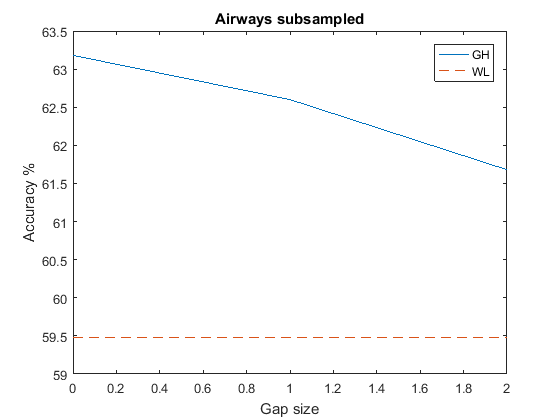
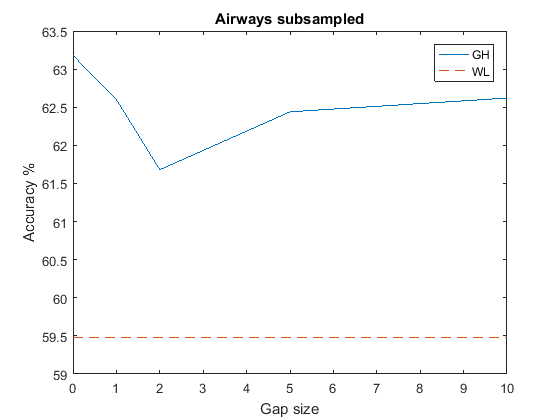
Div. rettelser

diff --git a/rapport/rapport.tex b/rapport/rapport.tex
@@ -109,7 +109,7 @@ mathescape
 \newpage
 
 \section{Introduction}
-This report presents our work and the theory used developing and testing an efficient implementation of the GraphHopper kernel\cite{gappy} with \textit{gappy paths} in C++ for our Bachelor thesis. While we do introduce the basics behind \textit{Support Vector Machines } (SVM) and kernels based on our earlier work in \cite{svm-graph-kernels} the focus will primarily lie on the algorithm behind the kernel itself as well as the introduction of \textit{gaps}. Gaps have been proved useful in string kernels but have to our knowledge never before been implemented in a graph kernel. After presenting the theory we will provide the results of our experiments analysing the time efficiency of our implementation compared to an existing MATLAB-implementation as well as the effect on classification accuracy in different datasets when adding gaps to the kernel.
+This report presents our work and the theory used developing and testing an efficient implementation of the GraphHopper kernel\cite{gappy} with \textit{gappy paths} in C++ for our Bachelor thesis. While we do introduce the basics behind \textit{Support Vector Machines } (SVM) and kernels based on our earlier work in \cite{svm-graph-kernels} the focus will primarily lie on the algorithm behind the kernel itself as well as the introduction of \textit{gaps}. Gaps have been proved useful in string kernels\cite{string-kernels} but have to our knowledge never before been implemented in a graph kernel. After presenting the theory we will provide the results of our experiments analysing the time efficiency of our implementation compared to an existing MATLAB-implementation as well as the effect on classification accuracy in different datasets when adding gaps to the kernel.
 
 \section{SVM}
 Before introducing the GraphHopper kernel we need to establish some essential underlying theory. In this section we will focus on the basic theory of classification, SVM, kernels and cross-validation. This is a condensed summary of the most relevant parts of our former work \cite{svm-graph-kernels} where we discuss the topics thoroughly.
@@ -283,7 +283,7 @@ k_{graphhopper}(G,G')=\sum_{v\in V}\sum_{v'\in V'}w(v,v')k_n(v,v')
 \end{equation}
 
 
-When calculating $w(v,v')$ we sum the number of pairs $\pi,\pi'$ such that $|\pi|=|\pi'|$ and $\pi(i)=\pi'(i)$ for some $i$. Let $width(G)$ be the discrete length of the longest shortest path $\pi\in P$ and let $\delta=min(width(G), width(G'))$. Since we only consider pairs of paths of same length we do not have to consider any paths of length greater than $\delta$.
+When calculating $w(v,v')$ we sum the number of pairs $\pi,\pi'$ such that $|\pi|=|\pi'|$,  $\pi(i)=v$ and $\pi'(i)=v'$ for some $i$. Let $width(G)$ be the discrete length of the longest shortest path $\pi\in P$ and let $\delta=min(width(G), width(G'))$. Since we only consider pairs of paths of same length we do not have to consider any paths of length greater than $\delta$.
 
 Beside from this limitation it is trivial that for a pair of paths $\pi,\ \pi'$ such that $|\pi|=|\pi'|=j$ we only have to consider nodes at index $i=1..j$ since there cannot exist any nodes at index $i>j$.
 
@@ -307,7 +307,7 @@ The $M$ matrix can be computed in a number of ways. We will be using the message
 
 Let $\tilde{v}$ be a node in $V$ and let $P_{\tilde{v}}$ be the set of shortest paths in $G$ starting in $\tilde{v}$. Then $M(v)_{ij}$ becomes the sum of shortest paths $\pi_{\tilde{v}}\in P_{\tilde{v}}$ of discrete length $j$ for all $\tilde{v}\in V$ such that $v$ appears as the $i$'th node in $\pi_{\tilde{v}}$. This means that we can compute $M$ by iterating over each node $\tilde{v}\in V$ and finding all shortest paths starting in $\tilde{v}$.
 
-Before we move on, we will first introduce the shortest path DAG $G_{\tilde{v}}=(V, E_{\tilde{v}})$ for $\tilde{v}$ where $E_{\tilde{v}}$ are edges kept in $G_{\tilde{v}}$. The shortest path DAG $G_{\tilde{v}}$ is created by removing a minimum amount of edges from $G$ so that it only contains edges that are part of some shortest path starting in $\tilde{v}$. We call $\tilde{v}$ the root node in the resulting DAG. This is illustrated in figure \ref{fig:shortest-path-dag} where we present a graph $G$ and the shortest path DAG $G_{a}$ rooted in $a$.
+Before we move on, we will first introduce the shortest path DAG $G_{\tilde{v}}=(V, E_{\tilde{v}})$ for $\tilde{v}$ where $E_{\tilde{v}}$ are edges kept in $G_{\tilde{v}}$. The shortest path DAG $G_{\tilde{v}}$ is created by removing all unnecessary edges from $E$ so that it only contains edges that are part of some shortest path starting in $\tilde{v}$. We call $\tilde{v}$ the root node in the resulting DAG. This is illustrated in figure \ref{fig:shortest-path-dag} where we present a graph $G$ and the shortest path DAG $G_{a}$ rooted in $a$.
 
 \begin{figure}[H]
 	\begin{minipage}[t]{0.7\linewidth}
@@ -438,7 +438,7 @@ When computing $\mathfrak{D}_{\tilde{v}}$ with the algorithm detailed in figure 
 Having computed $\mathfrak{O}_{\tilde{v}}$ and $\mathfrak{D}_{\tilde{v}}$ we now observe that the number of times that $v$ appears as the $i$'th node in a path of discrete length $j$ in $G_{\tilde{v}}$ must be the number of paths from $\tilde{v}$ to $v$ in $G_{\tilde{v}}$ of length $i$ times the number of paths of length $j-i+1$ in $G_{\tilde{v}}$ starting in $v$; i.e.\ $\mathfrak{O}_{\tilde{v}}^v(v,i)\mathfrak{D}_{\tilde{v}}(v,j - i + 1)$.
 
 \textbf{Example}\\
-Consider the node $d$ in figure \ref{fig:shortest-path-dag}. Trying to find the number of paths in $G_{a}$ such that $d$ is the 2nd node in a path of length 3 we can intuitively see that there is one such path: $[a,d,c]$. This equivalent to the number of paths of length 2 from $a$ to $d$ times the number of paths of length $3-2+1=2$ starting in $d$.
+Consider the node $d$ in figure \ref{fig:shortest-path-dag}. Trying to find the number of paths in $G_{a}$ such that $d$ is the 2nd node in a path of length 3 we can intuitively see that there is one such path: $[a,d,c]$. This is equivalent to the number of paths of length 2 from $a$ to $d$ times the number of paths of length $3-2+1=2$ starting in $d$.
 This could be computed using the $\mathfrak{o}_a^d$ and $\mathfrak{d}_a^d$ computed earlier in figures \ref{fig:compute_o} and \ref{fig:compute_d}:
 \begin{align}
 \mathfrak{o}_a^d(2)\mathfrak{d}_a^d(3-2+1)&=\mathfrak{o}_a^d(2)\mathfrak{d}_a^d(2)\\
@@ -679,7 +679,7 @@ end
 
 \section{Node kernels}
 \label{section:node-kernels}
-As mentioned in section $\ref{section:graphhopper}$ one of the advantages of GraphHopper is that we apply any node kernel to compare the nodes. In this section we introduce the node kernels that we have chosen to include in our implementation. The following equations will be comparing two values $x,x'$ which when used as node kernel represent the labels of two nodes $v,v'$.
+As mentioned in section $\ref{section:graphhopper}$ one of the advantages of GraphHopper is that we may apply any node kernel to compare the nodes. In this section we introduce the node kernels that we have chosen to include in our implementation. The following equations will be comparing two values $x,x'$ which when used as node kernel represent the labels of two nodes $v,v'$.
 
 \subsection{Dirac}
 Dirac is a simple kernel best suited for comparing discrete values representing non-continuous data, e.g. categorized nodes. The kernel returns 1 if the two values are equal and 0 otherwise. The kernel is formally described in (\ref{eq:dirac}).
@@ -941,7 +941,7 @@ On the symmetrized Enzymes dataset with vector node labels GH outperformed WL. T
 \end{minipage}
 
 \paragraph{Airways subsampled:}
-GH outperformed WL on the airways data. Adding seems to negatively affect on performance but within standard deviation.\\
+GH outperformed WL on the airways data. Adding gaps barely seem to affect performance.\\
 \begin{minipage}{0.6\linewidth}
 	\hspace*{-1in}
 	\includegraphics[width=10cm]{airways}
@@ -956,7 +956,9 @@ GH outperformed WL on the airways data. Adding seems to negatively affect on per
 		\hline
 		GH & G & 0 & \textbf{63.180 (std. 1.7900)}\\
 		GH & G & 1 & \textbf{62.600 (std. 1.3233)}\\
-		GH & G & 2 & \textbf{61.6800 (std. 2.0422)}\\
+		GH & G & 2 & \textbf{61.680 (std. 2.0422)}\\
+		GH & G & 5 & \textbf{62.440 (std. 1.2030)}\\
+		GH & G & 10 & \textbf{62.620 (std. 1.1526)}\\
 		WL & - & - & 59.48 (std. 1.7080)
 	\end{tabular}
 	\captionof{table}{Airways subsampled results}
@@ -1048,19 +1050,9 @@ The results on NCI109 resembles those on NCI1: WL outperforms GH and gaps have a
 	\label{table:reddit_binary_unlabelled}
 \end{minipage}
 
-K matrices on gray scale\\
-\begin{minipage}{0.6\linewidth}
-	\hspace*{0.1in}
-	\includegraphics[width=5cm]{reddit_trolls_k}
-	\captionof{figure}{Reddit binary (unlabelled) K gray scale for GH.}
-	\label{fig:reddit_binary_unlabelled_k_gh}
-\end{minipage}
-\begin{minipage}{0.6\linewidth}
-In figure \ref{fig:reddit_binary_unlabelled_k_gh} we provide a gray scale image of the kernel matrix. As illustrated almost all inner products are in one of the two extremes (being either white or black) divided perfectly by their graph label showing that the 100\% accuracy result is indeed not a result of an error in SVM but of the fact that the kernel matrix is perfectly separable.
-\end{minipage}
 
 \paragraph{Collab (unlabelled):}
-When inspecting the results from Collab (labelled), we see that WL outperforms GH. Gaps seems to have very small to none effect on the performance of GH. \\
+When inspecting the results from Collab (unlabelled), we see that WL outperforms GH. Gaps seems to have very small to none effect on the performance of GH. \\
 \begin{minipage}{0.6\linewidth}
 	\hspace*{-1in}
 	\includegraphics[width=10cm]{collab_unlabelled}
@@ -1139,7 +1131,7 @@ On the unlabelled dataset GH struggled to compete with either of the other graph
 \end{minipage}
 
 \paragraph{IMDB Binary (labelled):}
-On the labelled dataset GH almost reached the performance of WL when and achieved its best result with $s=5$. \\
+On the labelled dataset GH almost reached the performance of WL and achieved its best result with $s=5$. \\
 \begin{minipage}{0.6\linewidth}
 	\hspace*{-1in}
 	\includegraphics[width=10cm]{imdb_labelled}
@@ -1294,7 +1286,7 @@ Gap size 50: 69.7833 (std. 1.4825)
 \subsubsection{Discussion}
 On graphs with discrete node labels WL generally outperforms GH (Enzymes, NCI1, NCI109, Collab unlabelled, IMDB). GH is, however, designed to take advantage of continuous node labels and on graphs with this property GH often gets the best result (Enzymes symmetrized, Airways subsampled) even when the continuous labels just represent the node degree (Collab labelled). On SEMI WL did get the best accuracy compared to GH despite the nodes having continuous vector labels but this may change when testing more choices of $\mu$.
 
-We did not see a consistent improvement in accuracy when adding gaps to GH. In most cases we saw no meaningful change in performance in either direction. The most promising result was achieved on SEMI where adding gaps had a massive positive impact ($>10\%$) for a specific choice of $\mu$. However, actually computing the best result with GH would require cross-validating $\mu$ and $s$ together and at this time we can not say whether the best combination of these parameters includes a positive value of $s$.
+We did not see a consistent improvement in accuracy when adding gaps to GH. In most cases we saw no meaningful improvement or some decrease in performance. Gaps seemed to have a negative impact on data based on chemical compounds while it did better on the social media data. The airways data scanned from images gave inconclusive results so further testing on data based on images would be interesting. The most promising result was achieved on the 3D data in SEMI where adding gaps had a massive positive impact ($>10\%$) for a specific choice of $\mu$. However, actually computing the best result with GH would require cross-validating $\mu$ and $s$ together and at this time we can not say whether the best combination of these parameters includes a positive value of $s$.
 
 \section{Conclusion}
 We have managed to implement the GraphHopper kernel in C++ and consistently achieve superior running times compared to the existing MATLAB-implementation. We have also implemented gappy paths and experimented with the impact on model accuracy when allowing gaps in graph classification. The results of the latter were inconclusive in that the impact was minimal or negative across most datasets but massively positive in one of our tests. In said test we did not, however, cross-validate the choice of a node kernel parameter ($\mu$) due to sheer size. Before concluding that adding gaps has a meaningful, positive impact on this data we need to cross-validate $\mu$ as well as the gap size $s$ and verify that the best result arises from a positive $s$ parameter and that this result is substantially better than any result achieved with $s=0$. In conclusion we believe that more time should be invested in researching the effect of gaps on graph classification.
